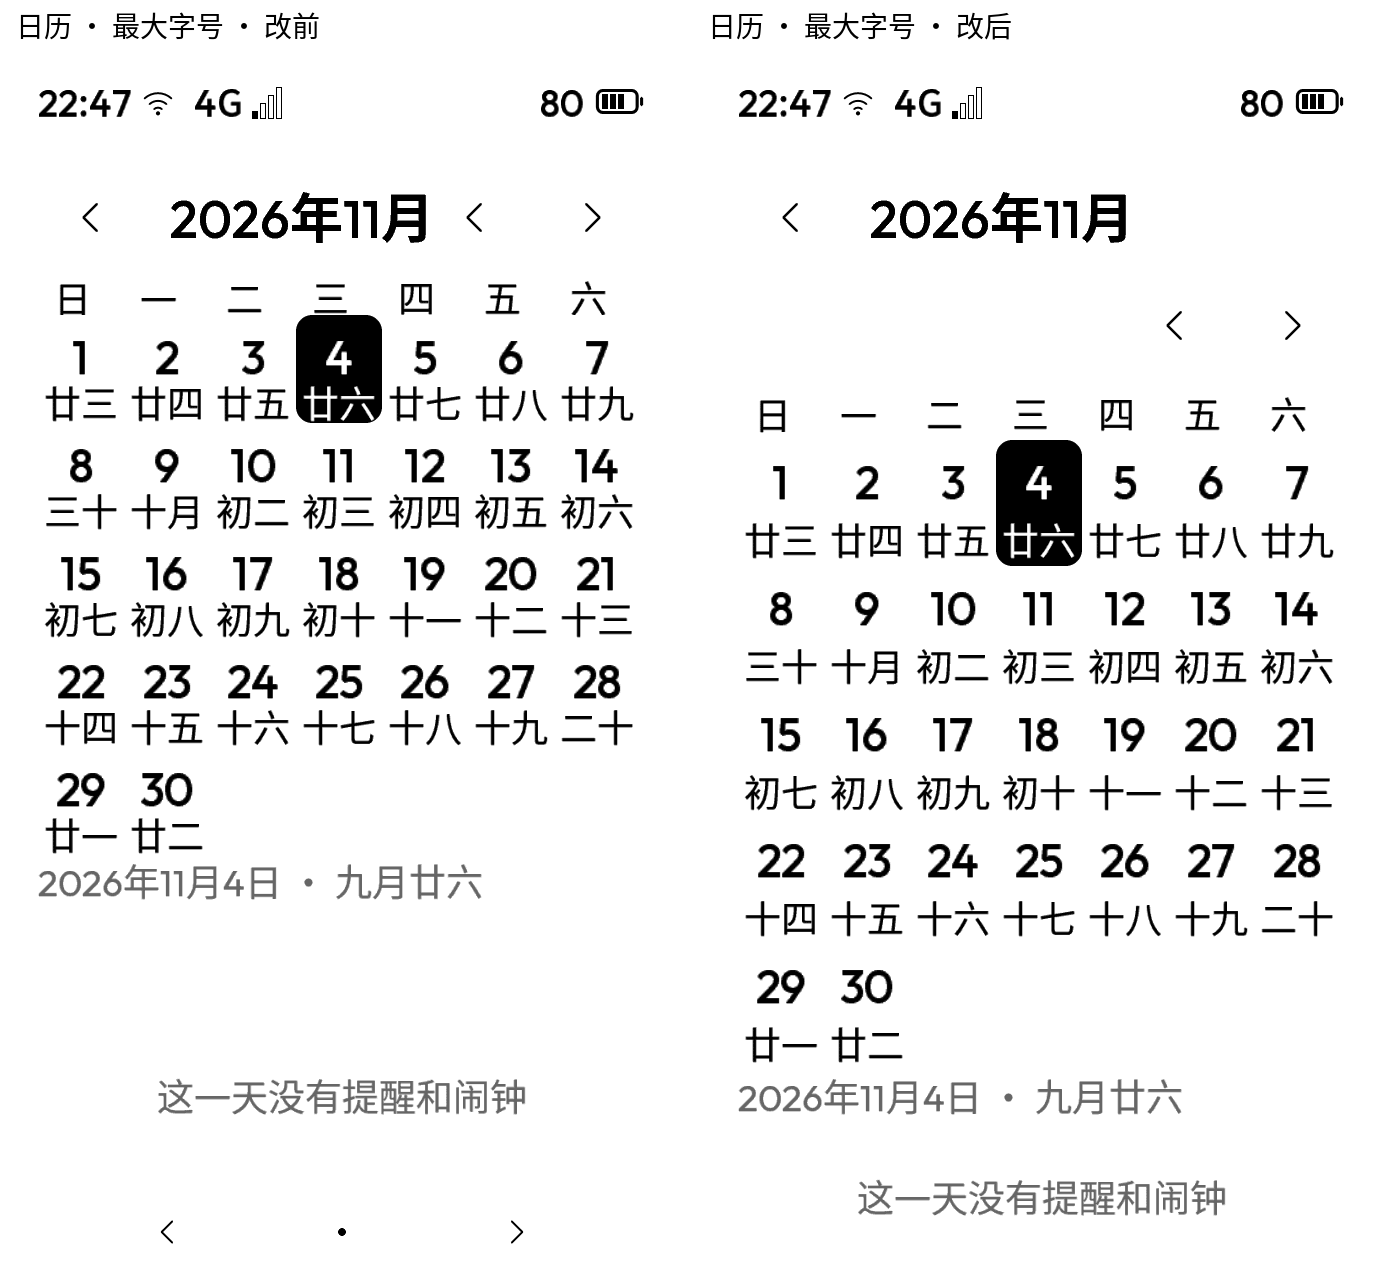
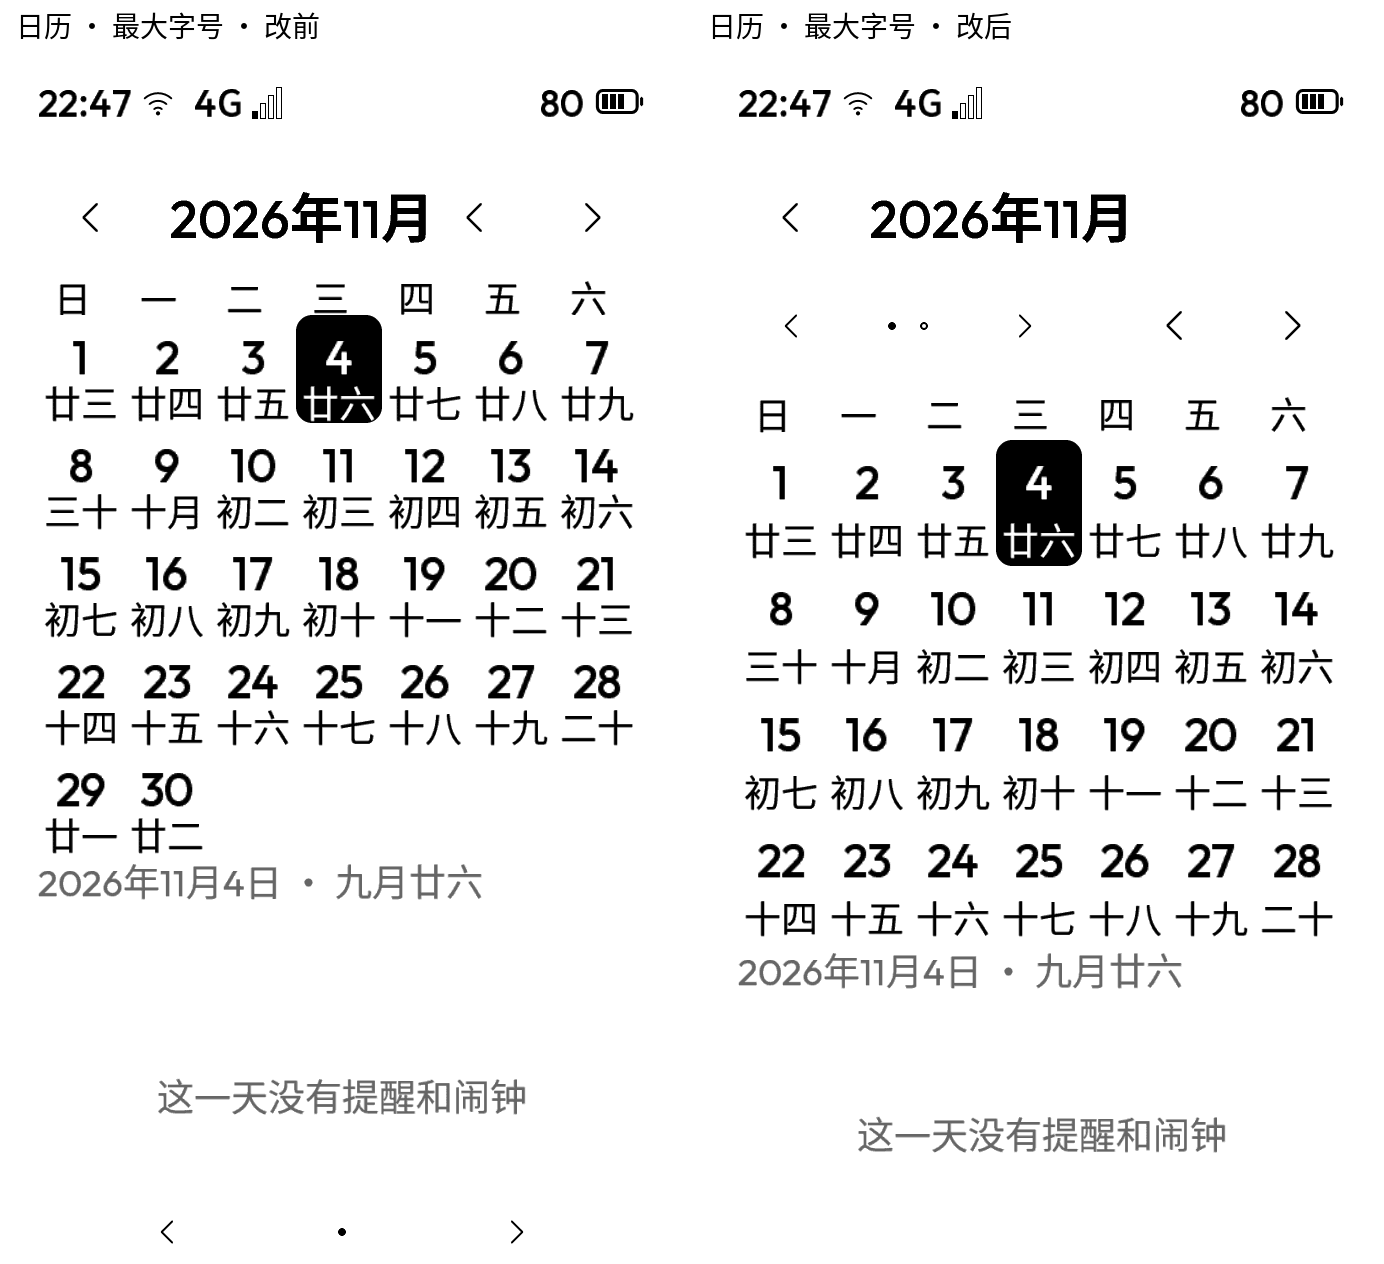
Refresh final UI evidence and sanitizer results

Changed region(s): [[0.5282, 0.7405, 0.901, 0.9565], [0.7457, 0.7405, 0.8389, 0.8022]]

diff --git a/docs/tasks/design-lang-2/REPORT.md b/docs/tasks/design-lang-2/REPORT.md
@@ -6,14 +6,14 @@
 
 | 编号 | 结论 | 证据 | 命令 |
 | --- | --- | --- | --- |
-| 1 普通全量及指定 ASan | 首轮全量 10 项失败；新增回归已修并定向通过，原两项按三次上限保留；最终全量和 ASan 待跑 | `build/design-lang-2/ctest-full.log`、`full-regressions.log`、`contacts-final-3.log` | 见下方命令 |
+| 1 普通全量及指定 ASan | 分页前最终全量仅余 2 项旧断言失败；最终代码全量待重跑。ASan 指定 137 项仅 i18n-lang 失败，另加月历 3 项全过 | `build/design-lang-2/ctest-full.log`、`full-regressions.log`、`contacts-final-3.log` | 见下方命令 |
 | 2 S31 宿主机及固件 | 待执行 | — | — |
-| 3 共用控件 108×108 | 【实测】共用部分 0 个不足；211 个页面自绘小目标单列 | `build/design-lang-1/after/targets.json` | `tests/design_lang_1.py --build build --check-targets` |
-| 4 30 页截图及失败逐项说明 | 【实测】最终代码 60 个场景的文字及页面修复检查为 0，72 张图已覆盖；逐项说明如下 | [对比图](../design-lang-1/SCREENSHOTS.md)、`capture-final-code.log` | 见下方截图命令 |
+| 3 共用控件 108×108 | 【实测】共用部分 0 个不足；209 个页面自绘小目标单列 | `build/design-lang-1/after/targets.json` | `tests/design_lang_1.py --build build --check-targets` |
+| 4 30 页截图及失败逐项说明 | 【实测】最终代码 60 个场景的文字及页面修复检查为 0，72 张图已覆盖；逐项说明如下 | [对比图](../design-lang-1/SCREENSHOTS.md)、`capture-final-grid.log` | 见下方截图命令 |
 
 ## 没做到的
 
-- `i18n-lang` 第三轮仍失败：重启阶段还按旧首页同时核对八个设置项，第二页的锁屏、存储、关于触发三次断言。切换阶段已经通过。本任务按总规则第 7 节“三次还不过就停”保留失败，不继续修改这个测试。
+- `i18n-lang` 第三轮仍失败：重启阶段还按旧首页同时核对九个设置项，第二页的锁屏、存储、关于触发三次断言。切换阶段已经通过。本任务按总规则第 7 节“三次还不过就停”保留失败，不继续修改这个测试。
 - `files-app` 第三轮仍失败：新增第二页的 `FileMoveLong-2`、`FileListLong-2` 截图名未被原有快照名称检查识别，各一次；写入和重启验证已过。达到同一三次上限，保留失败。
 - 本机 Linux CI 未运行；实机触摸、灰阶和固件运行未验证。
 
@@ -33,7 +33,7 @@
 | `files_ops` | 行框 2 → 0；保留勾选标记、无额外 outline、无划线与选中数量断言，符合新语言去外框。 |
 | `factory_pages` | 圆底图标 → 透明图标；黑分隔线 → 中灰 2。仍要求恰好四个图标、两个分隔线、一个真实开关。 |
 | `files_app` | 大字仍四行 → 三行；缩略图按三行定位；长目录由四项同页改为两页 3+1，仍检查四个完整路径的并集。后者还有上述快照名失败，未声称通过。 |
-| `i18n_lang` | 八个设置项同屏 → 精确两页的完整并集；第一页返回后检查当前语言。重启阶段遗漏的旧假设保留为失败。 |
+| `i18n_lang` | 九个设置项同屏 → 精确两页的完整并集；第一页返回后检查当前语言。重启阶段遗漏的旧假设保留为失败。 |
 | `audit10-b10-02` | 固定两页且忘掉网络必须在第一页 → 遍历真实页数，逐页要求可见按钮与两个 AI 快照的动作完全一致，且只有一页有此动作；最后真实点按验证本人确认。 |
 | `calendar` | 日程首屏两条 → 一条、三条分三页全部读取；六行月份改从可见“下一页”翻到 31 日，新增默认、孩子和最大字号各页完整文字/触控检查、页边界及 AI 选日自动定位检查；分钟刷新上限和像素裁剪边界 62 → 主题实际状态栏 108，实测 DU 为 108×684，未允许刷新进入正文。 |
 | `kid_3` | 固定减去 134 的大图标高度 → 读取紧凑图标的实际点按矩形，要求与时间说明留有主题间距；没有放宽实际相交检查。 |
@@ -54,7 +54,7 @@
 
 ## 顺手发现
 
-- `apps/` 中背景阅读页的目录文字链接是页面自绘，100%/120% 热区高 43/52，任务明确禁止修改该目录；与键盘、月历小格一起单列，不算共用控件通过项。
+- 209 个不足 108 的页面自绘目标：134 个原生键盘键、15 个候选/语音键、58 个月历日期格、2 个阅读目录链接。`apps/` 中背景阅读页的目录文字链接是页面自绘，100%/120% 热区高 43/52，任务明确禁止修改该目录；与键盘、月历小格一起单列，不算共用控件通过项。
 - 键盘只改底行权重、两行编辑栏与统一的顶部保留区；普通输入不因显示编辑栏而改变安全边界，没有重写键盘。合并以 `keyboard-2` 为准。`transfer_pages.c` 未改，只更新其测试的页码识别。
 
 ## 新增的机制
@@ -120,7 +120,17 @@ taskpolicy -c utility cmake --build build -j2
 INK_KEEP_EVIDENCE=1 taskpolicy -c utility "$INK_DEPS/build-deps/pyenv/bin/ctest" --test-dir build --output-on-failure -j2
 ```
 
-ASan 同样配置换 `build-asan`，只加 `-DINK_SANITIZE=ON`。其余命令及最终原话待补。
+ASan 同样配置换 `build-asan`，只加 `-DINK_SANITIZE=ON`。最终代码构建退出 0；指定组原话为 `99% tests passed, 1 tests failed out of 137`，121.14 秒，退出 8；唯一失败是上述 `i18n-lang` 重启旧断言。另加月历、日程和时区 3 项：`100% tests passed out of 3`，11.86 秒。两份运行日志未见 AddressSanitizer / UBSan 诊断。
+
+```sh
+taskpolicy -c utility cmake --build build-asan -j2
+INK_KEEP_EVIDENCE=1 taskpolicy -c utility "$INK_DEPS/build-deps/pyenv/bin/ctest" \
+  --test-dir build-asan --output-on-failure -j2 -R '^(ui-|i18n-|scenario-reader_)'
+INK_KEEP_EVIDENCE=1 taskpolicy -c utility "$INK_DEPS/build-deps/pyenv/bin/ctest" \
+  --test-dir build-asan --output-on-failure -j2 -R '^(calendar|calendar-events|time-settings)$'
+```
+
+日志：`build/design-lang-2/build-asan.log`、`ctest-asan.log`、`ctest-asan-calendar.log`。
 
 ```sh
 INK_DEPS="$INK_DEPS" taskpolicy -c utility "$INK_DEPS/build-deps/pyenv/bin/python" \
@@ -131,13 +141,13 @@ taskpolicy -c utility "$INK_DEPS/build-deps/pyenv/bin/python" tests/design_lang_
 
 【实测】七项反向对照均执行到 `test.finished=1` 后退出 1：今日 5 次、关于 6 次、联系人 1 次、短信 2 次、拨号 1 次、月历 60 次、空页页码 1 次。只将对应基线页面对象链接到最终探针，没有回写产品源码。结果在 `build/design-lang-2/reverse/results.json`。其余失败的修前复现在 `baseline-failures.log`。
 
-【实测】`gcccheck.py` 检查主工程编译数据库中的 40 个改动 C 文件：`gcccheck: 40 compiled, 0 with findings`，退出 0；工厂页增加命名数组上限后另查一次为 `1 compiled, 0 with findings`。截图探针不在数据库中，明确跳过，由截图脚本按真实编译参数编译成功；此结果不等于 Linux CI 已执行。
+【实测】`gcccheck.py` 检查主工程编译数据库中的 40 个改动 C 文件：`gcccheck: 40 compiled, 0 with findings`，退出 0，最终月历与测试改动后复查仍为同一结果（`gcccheck-acceptance-final.log`）。截图探针不在数据库中，明确跳过，由截图脚本按真实编译参数编译成功；此结果不等于 Linux CI 已执行。
 
 ## 规模及架构核对
 
 产品代码 22 个文件，新增 263 行、删除 132 行，合计 395 行，小于 900。为什么不能更小：输入框总高、今日卡片容量、月历两行、英文按钮、键盘固定安全区是不同的真实布局根因；只恢复旧高度会违反 108 或大字合同。已经在共用按钮、分段、列表空页和键盘高度入口集中处理，没有新增服务或通用框架。
 
-【实现】服务、成员隔离、密码输入与确认策略没有新增路径；按钮和 AI 保持既有原子能力、列表快照及分页动作。没有更改 `apps/`、`third_party/mogo/`、声音/通知服务、S31 U 盘或已有调研和审计资料。
+【实现】服务、成员隔离、密码输入与确认策略没有新增路径；按钮和 AI 使用同一能力总线、列表快照及分页动作；月格分页的两个新能力和当前页状态也进入快照。没有更改 `apps/`、`third_party/mogo/`、声音/通知服务、S31 U 盘或已有调研和审计资料。
 
 ## 过程记录
 
